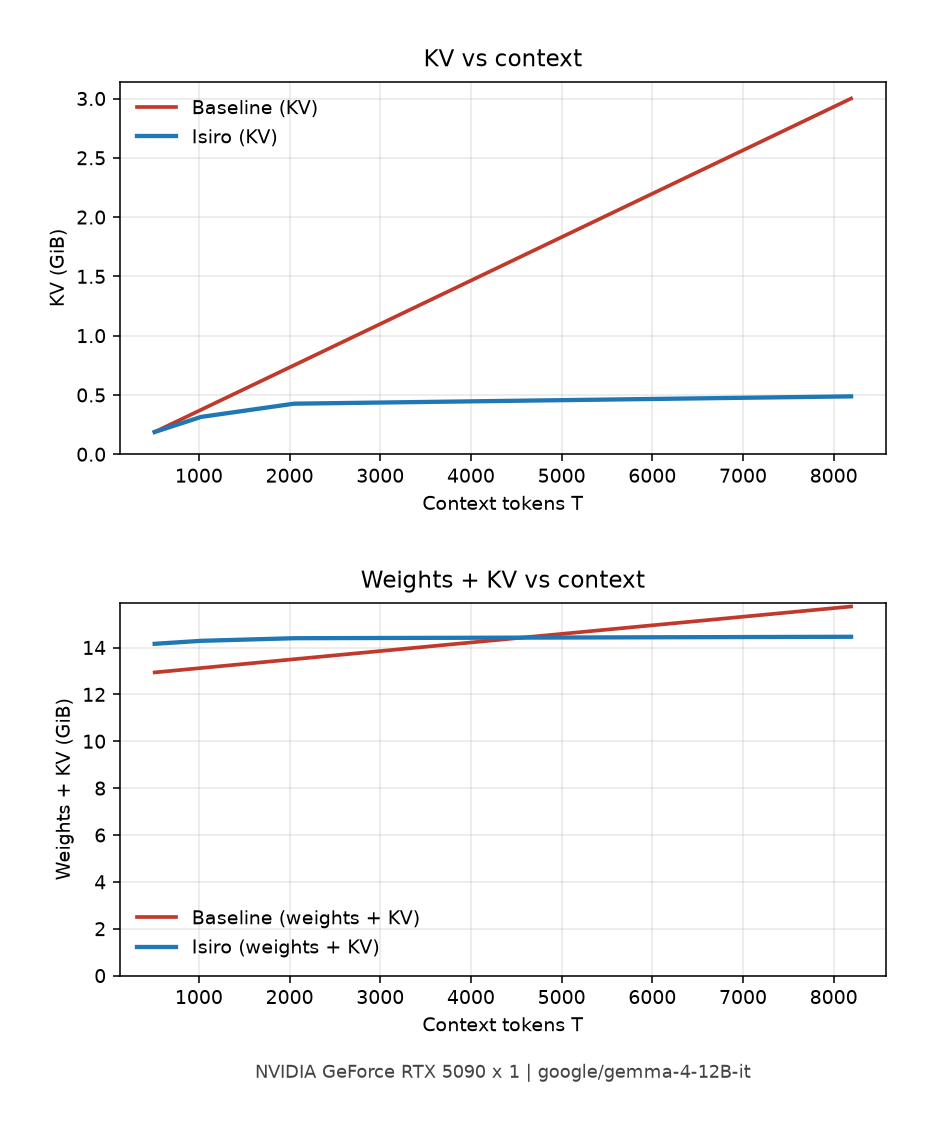
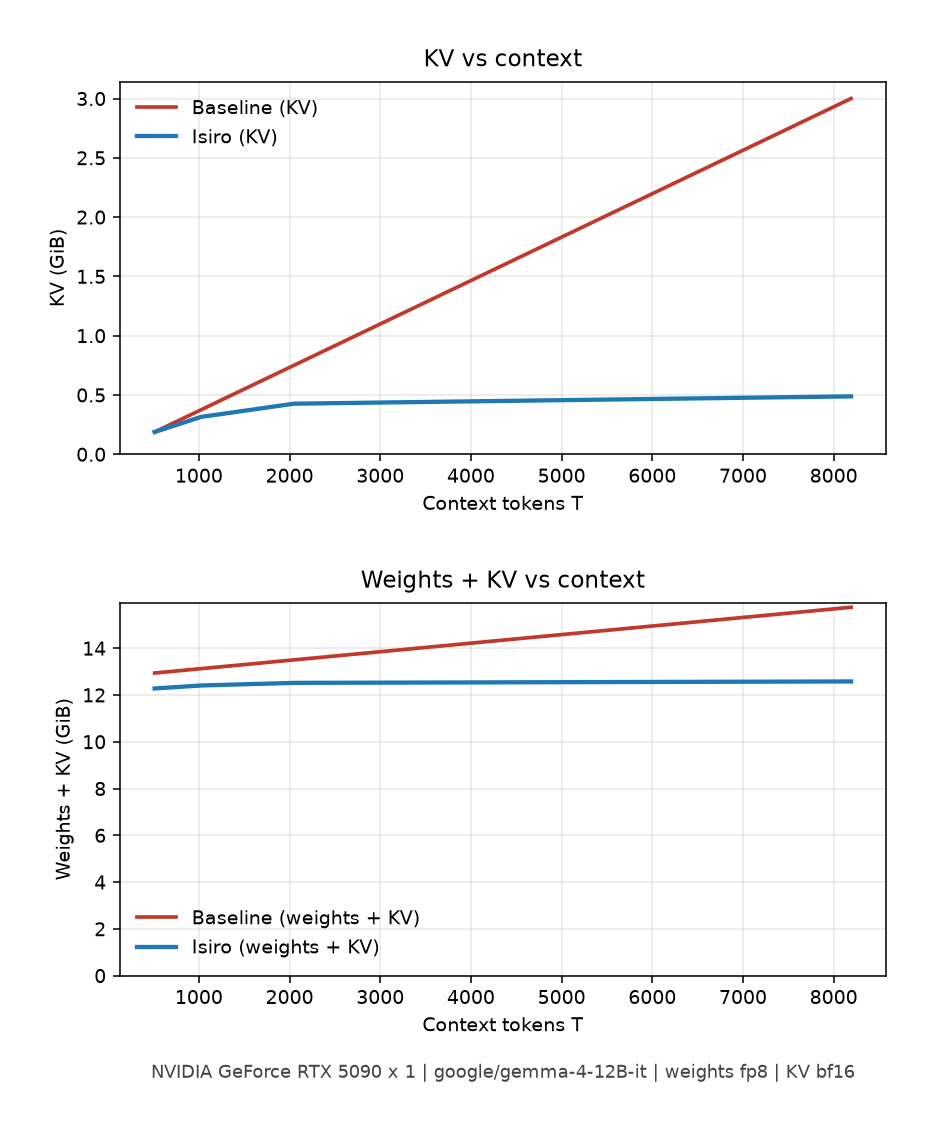
Refresh Gemma FP8 report after tied-head HBM fix and label precisions.
Publish loaded-weight win (12.09 GiB) and put weights/KV precision on the
KV figure tagline and Config table; skip baseline scrape when REF is set.

Changed region(s): [[0.1552, 0.557, 0.9004, 0.6189], [0.1552, 0.9284, 0.9004, 0.9593]]

diff --git a/benchmarks/scripts/gdx_kv_bytes_curve.py b/benchmarks/scripts/gdx_kv_bytes_curve.py
@@ -402,6 +402,8 @@ def render_png(
     gpu: str = "",
     gpu_count: int | None = None,
     model: str = "",
+    weight_precision: str = "",
+    kv_precision: str = "",
 ) -> None:
     """2x1: KV-only (top) and weights+KV (bottom). No GDX in legend labels."""
     import matplotlib
@@ -426,7 +428,20 @@ def render_png(
         and float(b_w) > 0
         and float(t_w) > 0
     )
-    tagline = figure_tagline(gpu=gpu, gpu_count=gpu_count, model=model)
+    w_prec = str(weight_precision or doc.get("weight_precision") or "").strip()
+    kv_prec = str(
+        kv_precision
+        or doc.get("kv_precision")
+        or doc.get("alphabet")
+        or ""
+    ).strip()
+    tagline = figure_tagline(
+        gpu=gpu,
+        gpu_count=gpu_count,
+        model=model,
+        weight_precision=w_prec,
+        kv_precision=kv_prec,
+    )
     if has_weights:
         fig, (ax0, ax1) = plt.subplots(
             2, 1, figsize=(7.2, 7.6), dpi=140, sharex=False
@@ -575,6 +590,18 @@ def main(argv: list[str] | None = None) -> int:
         default=None,
         help="Optional summary.json; reads footprint model_loading_bytes_reported",
     )
+    parser.add_argument(
+        "--weight-precision",
+        default=os.environ.get("PRECISION")
+        or os.environ.get("ISIRO_BENCH_PRECISION")
+        or "",
+        help="Weight precision for the figure tagline (e.g. fp8, bf16)",
+    )
+    parser.add_argument(
+        "--kv-precision",
+        default="",
+        help="KV precision for the figure tagline (default: --alphabet)",
+    )
     args = parser.parse_args(argv)
     tokens = [int(x) for x in str(args.tokens).split(",") if x.strip()]
     if not args.model_dir or not Path(args.model_dir).is_dir():
@@ -608,6 +635,12 @@ def main(argv: list[str] | None = None) -> int:
     if b_w > 0 and t_w > 0:
         doc["baseline_weight_bytes"] = b_w
         doc["isiro_weight_bytes"] = t_w
+    w_prec = str(args.weight_precision or "").strip()
+    kv_prec = str(args.kv_precision or args.alphabet or "").strip()
+    if w_prec:
+        doc["weight_precision"] = w_prec
+    if kv_prec:
+        doc["kv_precision"] = kv_prec
     args.out_json.parent.mkdir(parents=True, exist_ok=True)
     args.out_json.write_text(
         json.dumps(doc, indent=2, sort_keys=True) + "\n", encoding="utf-8"
@@ -619,6 +652,8 @@ def main(argv: list[str] | None = None) -> int:
             gpu=str(args.gpu_model or ""),
             gpu_count=int(args.gpu_count) or None,
             model=str(args.model or ""),
+            weight_precision=w_prec,
+            kv_precision=kv_prec,
         )
         print(
             f"gdx_kv_bytes_curve: PASS alphabet={doc.get('alphabet')} "

diff --git a/benchmarks/scripts/generate_report.py b/benchmarks/scripts/generate_report.py
@@ -906,6 +906,7 @@ def _section_g(
         "|------|-------|",
         f"| System | `{summary.get('system_id', '')}` |",
         f"| CUDA graphs | {graph_cell} |",
+        f"| Weights | `{summary.get('precision', '')}` |",
         f"| KV cache | {kv_cell} |",
         f"| Compiler | `{compiler}` |",
         f"| Runtime | `{runtime}` |",
@@ -1100,12 +1101,36 @@ def write_report(run_dir: Path, output: Path) -> Path:
                         i = argv.index("--served-model-name")
                         if i + 1 < len(argv):
                             model_tag = str(argv[i + 1])
+                summary_for_prec = (
+                    load_json(run_dir / "summary.json")
+                    if (run_dir / "summary.json").is_file()
+                    else {}
+                )
+                cmds_for_prec = (
+                    load_json(run_dir / "commands.json")
+                    if (run_dir / "commands.json").is_file()
+                    else {}
+                )
+                w_prec = str(
+                    summary_for_prec.get("precision")
+                    or gdx_doc.get("weight_precision")
+                    or ""
+                ).strip()
+                kv_prec = str(
+                    cmds_for_prec.get("isiro_gdx_kv")
+                    or cmds_for_prec.get("kv_cache_dtype")
+                    or gdx_doc.get("kv_precision")
+                    or gdx_doc.get("alphabet")
+                    or ""
+                ).strip()
                 _render_gdx_png(
                     gdx_doc,
                     dest_png,
                     gpu=str(env.get("gpu_model") or ""),
                     gpu_count=env.get("gpu_count"),
                     model=model_tag,
+                    weight_precision=w_prec,
+                    kv_precision=kv_prec,
                 )
             except Exception:
                 _shutil.copy2(gdx_png_src, dest_png)

diff --git a/benchmarks/scripts/needle_haystack.py b/benchmarks/scripts/needle_haystack.py
@@ -64,10 +64,14 @@ def figure_tagline(
     gpu: str = "",
     gpu_count: int | None = None,
     model: str = "",
+    weight_precision: str = "",
+    kv_precision: str = "",
 ) -> str:
-    """GPU box (name x count) and model under the figure title."""
+    """GPU box, model, and optional weight/KV precisions under the figure."""
     gpu_s = str(gpu or "").strip()
     model_s = str(model or "").strip()
+    w_s = str(weight_precision or "").strip()
+    kv_s = str(kv_precision or "").strip()
     count: int | None = int(gpu_count) if gpu_count else None
     if rows is not None:
         for item in rows:
@@ -84,11 +88,29 @@ def figure_tagline(
                 model_s = str(
                     item.get("model") or item.get("model_id") or ""
                 ).strip()
+            if not w_s:
+                w_s = str(
+                    item.get("weight_precision")
+                    or item.get("precision")
+                    or ""
+                ).strip()
+            if not kv_s:
+                kv_s = str(
+                    item.get("kv_precision")
+                    or item.get("kv_cache_dtype")
+                    or item.get("isiro_gdx_kv")
+                    or ""
+                ).strip()
             if gpu_s and model_s:
                 break
     if gpu_s and count is not None and count > 0:
         gpu_s = f"{gpu_s} x {count}"
-    return " | ".join(part for part in (gpu_s, model_s) if part)
+    parts = [gpu_s, model_s]
+    if w_s:
+        parts.append(f"weights {w_s}")
+    if kv_s:
+        parts.append(f"KV {kv_s}")
+    return " | ".join(part for part in parts if part)
 
 
 def format_gib_cell(size: float) -> str:

diff --git a/benchmarks/gemma-4-12B-it-fp8/rtx-5090-report/report.md b/benchmarks/gemma-4-12B-it-fp8/rtx-5090-report/report.md
@@ -1,6 +1,6 @@
 # ISIRO Benchmark Report: `gemma-4-12B-it-fp8`
 
-`fp8` | `rtx-5090` | compiler `v0.1.0` | runtime `v0.1.1` | 2026-10-11 02:30 UTC
+`fp8` | `rtx-5090` | compiler `v0.1.0` | runtime `v0.1.1` | 2026-10-11 17:17 UTC
 
 Tooling:
 
@@ -18,9 +18,9 @@ GDX cold coding-rate vs naive vendor KV bits (estimate): bf16 ~29-31% vs 16 bpv;
 | Metric | Baseline | Isiro |
 |--------|----------|-------|
 | On-disk model size | 15.04 GB | **12.42 GB** (**17.43% smaller**) |
-| Weight bit-exactness | baseline weights | **PASS** (`isiro verify -r`) |
+| Integrity | baseline weights | **PASS** (`isiro verify`) |
 | KV bit-exactness | vendor KV pages | **PASS** (GDX `bf16` cold roundtrip) |
-| Serve output match | - | **PASS** (4/4 prompts, temp=0, token IDs equal) |
+| Serve output match | - | not run |
 
 ## A. GPU memory
 
@@ -30,19 +30,19 @@ Savings % uses `1 - Isiro/Baseline` for loaded weights. For KV it uses `Isiro/Ba
 
 | Metric | Baseline | Isiro | Savings % |
 |--------|----------|-------|-----------|
-| GPU memory for loaded weights | 12.75 GiB | 13.97 GiB | -9.57% |
+| GPU memory for loaded weights | 12.75 GiB | **12.09 GiB** | **5.18%** |
 
 ### KV cache
 
 | Metric | Baseline default fill | Isiro reserved KV | Savings % |
 |--------|-----------------------|-------------------|-----------|
-| GPU memory reserved for KV | 14.64 GiB (60990 tokens) | 12.89 GiB (53713 tokens)† | -11.95% (0.88x) |
+| GPU memory reserved for KV | 14.64 GiB (60990 tokens) | **14.77 GiB** (61527 tokens)† | **0.89% (1.01x)** |
 
 † Reserved pool on the GPU at vendor KV bytes/token. Token counts are pool admission slots (same bpv as the vendor dtype), not GDX-coded cold capacity. Longer context uses persist after vendor reclaim of prefix blocks (TokenIDs plus archived K,V). Not a second vendor KV cache on the host.
 
 ### KV vs context
 
-`ISIRO_GDX=bf16` on KV from a Project Gutenberg text forward. At T=8192: Baseline KV 3.00 GiB, Isiro KV 0.49 GiB; save 2.51 GiB (83.7%). Bottom panel adds loaded weights (Baseline 12.75 GiB, Isiro 13.97 GiB): at T=8192, Baseline 15.75 GiB vs Isiro 14.46 GiB (weights + KV).
+`ISIRO_GDX=bf16` on KV from a Project Gutenberg text forward. At T=8192: Baseline KV 3.00 GiB, Isiro KV 0.49 GiB; save 2.51 GiB (83.7%). Bottom panel adds loaded weights (Baseline 12.75 GiB, Isiro 12.09 GiB): at T=8192, Baseline 15.75 GiB vs Isiro 12.58 GiB (weights + KV).
 
 Figure. Weights and KV vs 1-user context.
 
@@ -57,7 +57,7 @@ Concurrent requests are the serve max concurrent sequences (`max_num_seqs`); the
 | Metric | Baseline | Isiro |
 |--------|----------|-------|
 | Concurrent requests | 32 | 32 |
-| KV token capacity | 60990 (14.64 GiB KV) | 53713 (12.89 GiB KV)† |
+| KV token capacity | 60990 (14.64 GiB KV) | **61527 (14.77 GiB KV)†** |
 
 ### Generation (recall-matched KV, input 32 / output 256)
 
@@ -65,10 +65,10 @@ Tok/s is aggregate system throughput across in-flight requests. Per-request deco
 
 | Metric | Baseline | Isiro |
 |--------|----------|-------|
-| Output tok/s | 2013.04 | **2651.01** |
-| ITL (ms) p50 / p95 / p99 | 11.61 / 12.66 / 13.18 | 11.42 / 12.47 / 13.84 |
-| TPOT (ms) p50 / p95 / p99 | 11.63 / 11.63 / 11.63 | 11.54 / 11.68 / 11.68 |
-| TTFT (ms) p50 / p95 / p99 | 1091.55 / 1120.19 / 1120.21 | 139.79 / 140.58 / 140.68 |
+| Output tok/s | 2650.30 | 2628.23 |
+| ITL (ms) p50 / p95 / p99 | 11.53 / 12.96 / 13.42 | 11.45 / 13.24 / 14.21 |
+| TPOT (ms) p50 / p95 / p99 | 11.64 / 11.73 / 11.82 | 11.62 / 11.69 / 11.72 |
+| TTFT (ms) p50 / p95 / p99 | 115.66 / 143.84 / 144.06 | 103.99 / 157.64 / 157.69 |
 
 ## Config
 
@@ -76,6 +76,7 @@ Tok/s is aggregate system throughput across in-flight requests. Per-request deco
 |------|-------|
 | System | `rtx-5090` |
 | CUDA graphs | on (eager prefill, graph decode) |
+| Weights | `fp8` |
 | KV cache | dtype `bfloat16`; `ISIRO_GDX=bf16` on Isiro |
 | Compiler | `v0.1.0` |
 | Runtime | `v0.1.1` |
